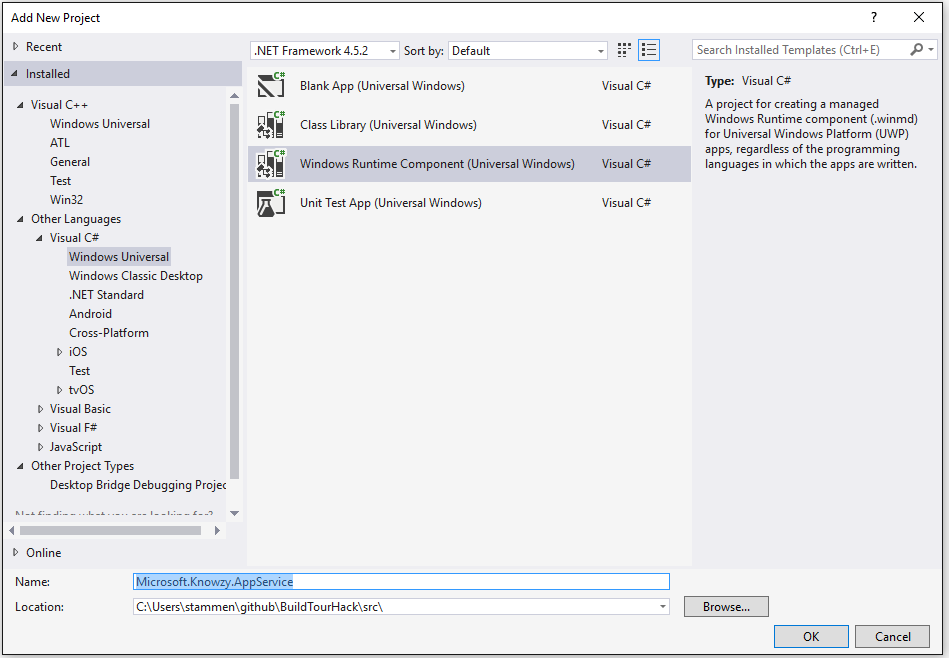
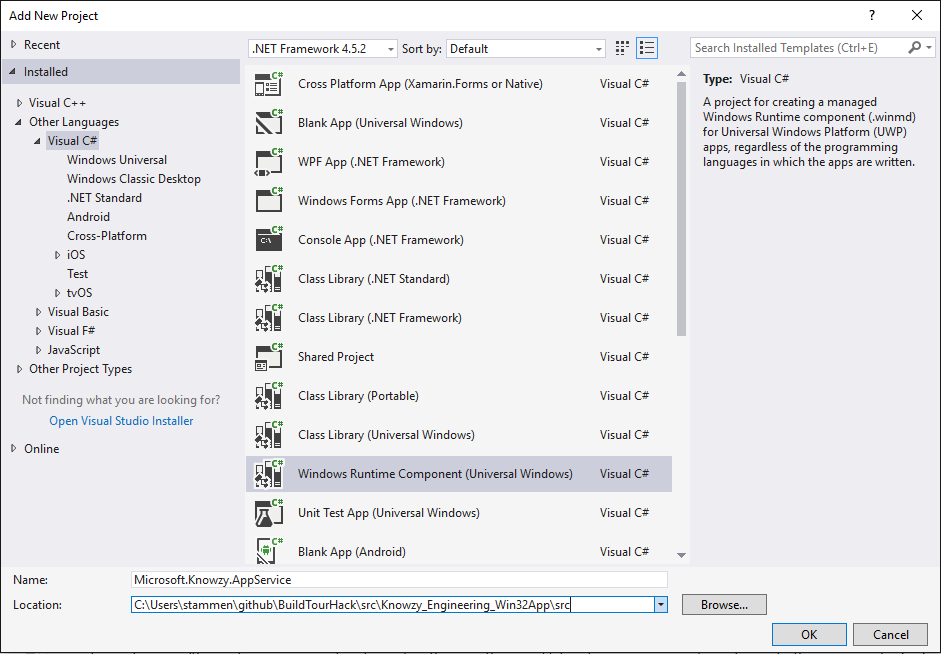
updated 223

diff --git a/stories/2/223_AppServices.md b/stories/2/223_AppServices.md
@@ -149,11 +149,12 @@ namespace Microsoft.Knowzy.AppService
 </uap:Extension>
 ```
 
-* Add the following xmlns declaration to the Package tag
+* If necessary, add the following xmlns declaration to the Package tag
 
 ```xml
 xmlns:uap4="http://schemas.microsoft.com/appx/manifest/uap/windows10/4"
 ```
+
 
 #### Add a project reference to Microsoft.Knowzy.AppService ####
 
@@ -163,9 +164,17 @@ xmlns:uap4="http://schemas.microsoft.com/appx/manifest/uap/windows10/4"
 
 * The Microsoft.Knowzy.AppService will now be part of the Knowzy UWP AppX package after a build.
 
-#### Add an AppService helper class to Microsoft.Knowzy.Common.Helpers ####
+#### Create a new C# Class Library project Microsoft.Knowzy.UwpHelpers.AppService ####
 
-* Add a new C# class called AppService.cs to the Helpers folder of the Microsoft.Knowzy.Common project.
+The Windows 10 AppServices UWP API does not seem seem to be compatible with Portable Class Libraries so create a regular C# Class Library project called Microsoft.Knowzy.UwpHelpers.AppService.
+
+
+#### Add an AppService helper class to Microsoft.Knowzy.UwpHelpers.AppService ####
+
+* Add a new C# class called AppService.cs to the Helpers folder of the Microsoft.Knowzy.UwpHelpers project.
+
+![AppService Class Library](images/223-appservice-class-lib.png)
+
 
 * Add the following using directives to AppService.cs
 
@@ -238,6 +247,14 @@ public class AppService
     }
 }
 ```
+
+#### Add a project reference to Microsoft.Knowzy.UwpHelpers.AppService ####
+
+* Right-click on the Microsoft.Knowzy.WPF project and select **Add | Reference...**
+
+* Select the **Microsoft.Knowzy.UwpHelpers.AppService** project under the **Projects | Solution** section. 
+
+
 
 #### Add Listener support to the App Service ####
 
@@ -373,17 +390,17 @@ async void OnRequestReceived(AppServiceConnection sender, AppServiceRequestRecei
 
 #### Enable Microsoft.Knowzy.WPF to use the App Service ####
 
-* Add a Click event to the Help Menu in MainView.xaml in the Microsoft.Knowzy.WPF project.
+* Add a Click event to the Menu Menu in MainView.xaml in the Microsoft.Knowzy.WPF project.
 
 ```xml
-<MenuItem Header="{x:Static localization:Resources.Help_Menu}" Template="{DynamicResource MenuItemControlTemplate}" Click="Help_Click"/>
+<MenuItem Header="{x:Static localization:Resources.Help_Menu}" Template="{DynamicResource MenuItemControlTemplate}" Click="Menu_Click"/>
 ```
-* Add the Help_Click handler in MainView.xaml.cs in the Microsoft.Knowzy.WPF project.
+* Add the Menu_Click handler in MainView.xaml.cs in the Microsoft.Knowzy.WPF project.
 
 ```c#
 AppService _appService = null;
        
-private async void Help_Click(object sender, EventArgs e)
+private async void Menu_Click(object sender, EventArgs e)
 {
     if (ExecutionMode.IsRunningAsUwp())
     {
@@ -391,11 +408,11 @@ private async void Help_Click(object sender, EventArgs e)
         {
             // start the app service
             _appService = new AppService();
-            var result = await _appService.StartAppServiceConnection("com.microsoft.knowzy.appservice.test");
+            var result = await _appService.StartAppServiceConnection("com.microsoft.knowzy.protocol.test");
         }
 
         // start the XAML UI that will communicate with the App Service
-        Uri uri = new Uri("com.microsoft.knowzy.protocol.appservice.test://" + "message?appserviceid=" + "com.microsoft.knowzy.appservice.test");
+        Uri uri = new Uri("com.microsoft.knowzy.protocol.test://" + "message?appserviceid=" + "com.microsoft.knowzy.appservice.test");
         await UriProtocol.SendUri(uri);
     }
 }
@@ -427,6 +444,35 @@ to the WPF app through the AppService when the use clicks on the Connect button.
     </StackPanel>
 </Grid>
 ```        
+
+* Add the following to App.xaml.cs
+```c#
+protected override void OnActivated(IActivatedEventArgs args)
+{
+    if (args.Kind == ActivationKind.Protocol)
+    {
+        ProtocolActivatedEventArgs eventArgs = args as ProtocolActivatedEventArgs;
+        // TODO: Handle URI activation
+        // The received URI is eventArgs.Uri.AbsoluteUri
+
+        Uri uri = eventArgs.Uri;
+        if (uri.Scheme == "com.microsoft.knowzy.protocol.3d")
+        {
+            Frame rootFrame = new Frame();
+            Window.Current.Content = rootFrame;
+            rootFrame.Navigate(typeof(MainPage), uri.Query);
+            Window.Current.Activate();
+        }
+        else if (uri.Scheme == "com.microsoft.knowzy.protocol.test")
+        {
+            Frame rootFrame = new Frame();
+            Window.Current.Content = rootFrame;
+            rootFrame.Navigate(typeof(AppServiceTest), uri.Query);
+            Window.Current.Activate();
+        }
+    }
+}
+```     
 
 * Add the following using directive to AppServiceTest.xaml.cs
 
@@ -506,7 +552,7 @@ private async void Button_Click(object sender, RoutedEventArgs e)
 
 * Build and run the Knowzy app by starting the Microsoft.Knowzy.Debug project.
 
-* Click on the **Help** menu item.
+* Click on the **Menu** menu item.
 
 * When the AppServiceTest windows appears, click on the **Connect** button.
 
